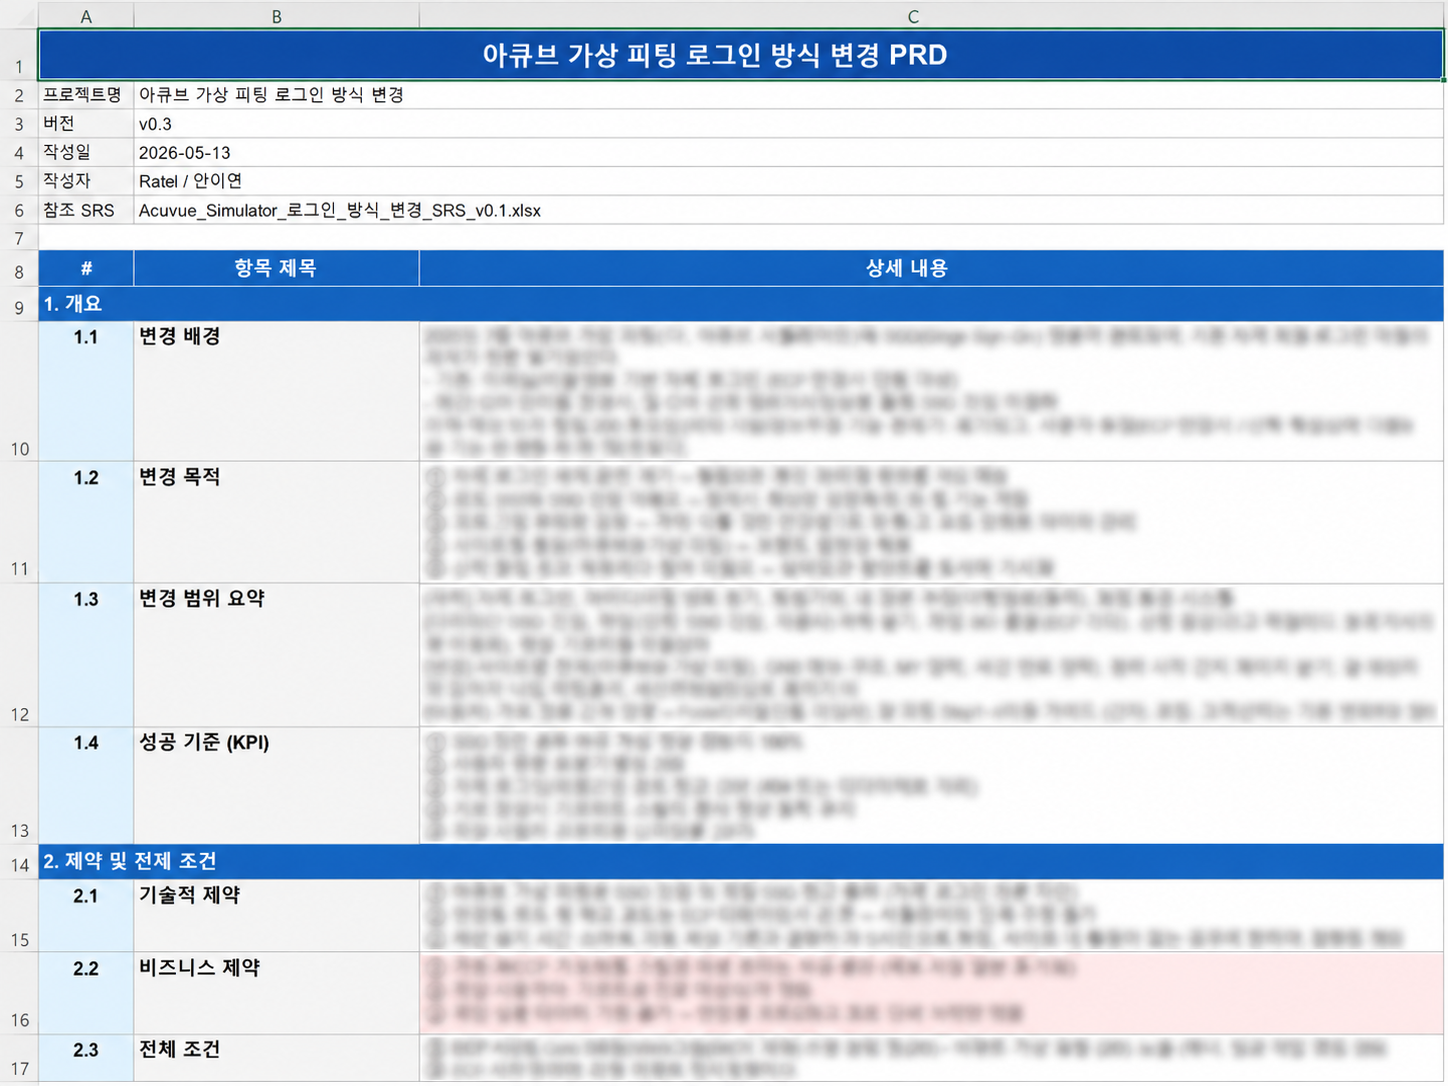
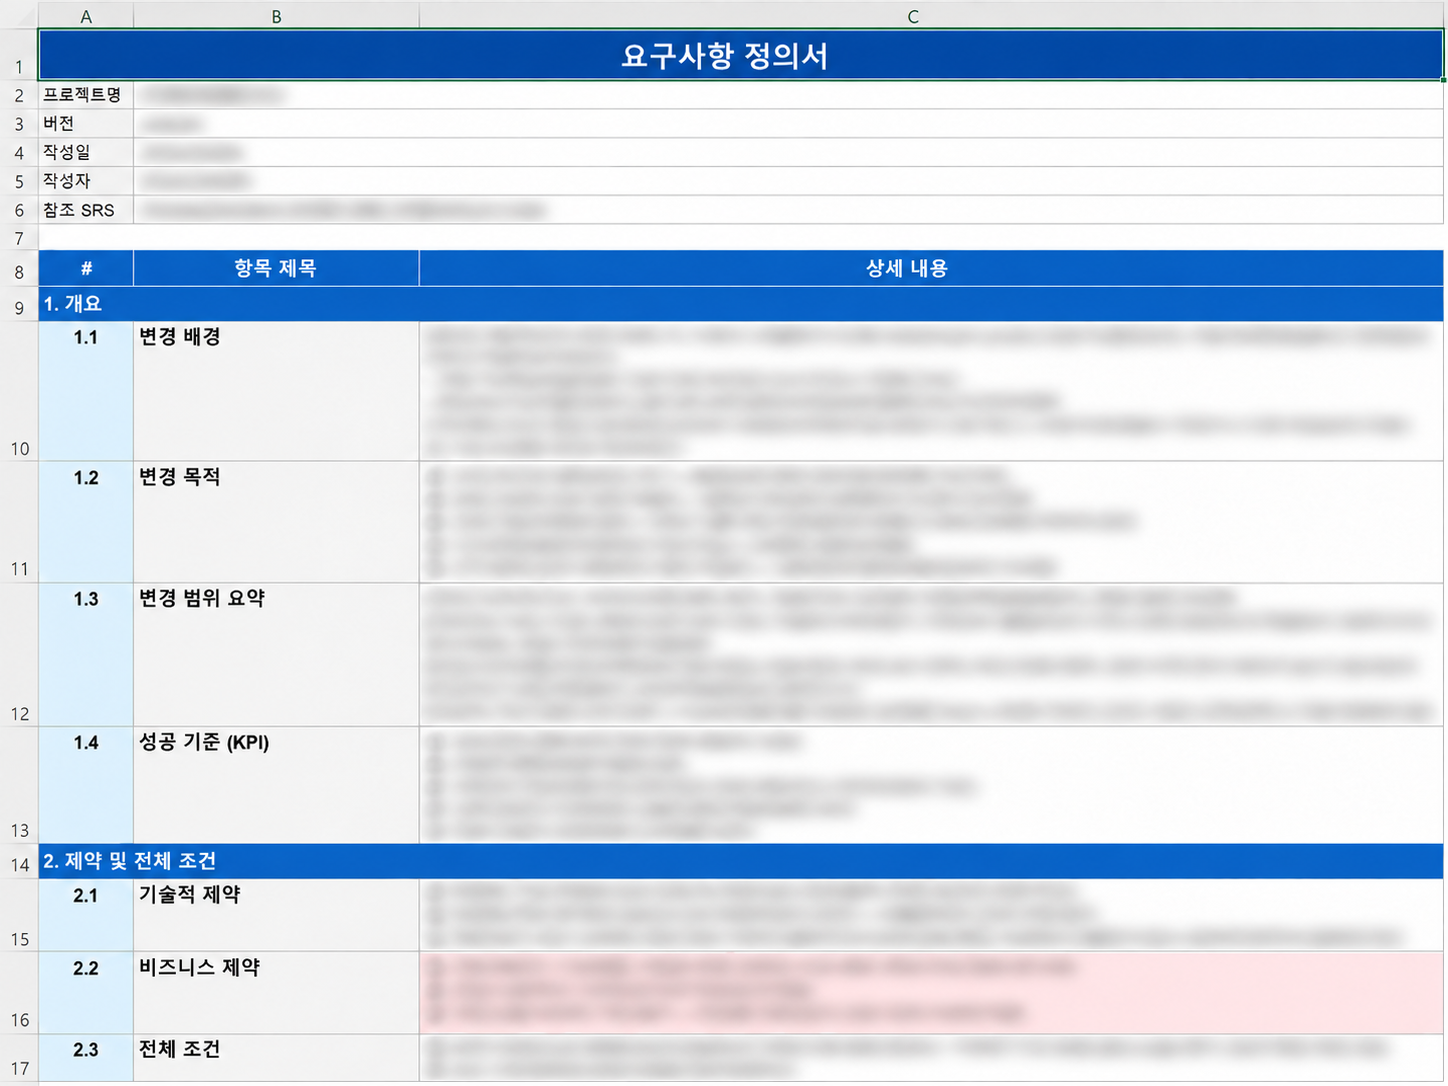
Strengthen PRD artifact redaction

diff --git a/public/index.html b/public/index.html
@@ -255,7 +255,7 @@
         <ol class="artifact-grid" aria-label="실무 산출물">
           <li class="artifact-card reveal">
             <div class="artifact-card-heading"><span>01</span><strong>정의</strong><span class="artifact-icon material-symbols-rounded" aria-hidden="true">description</span></div>
-            <figure><img src="/assets/additional-prd.png" alt="상세 내용을 마스킹한 아큐브 가상 피팅 요구사항 정의서" /><figcaption>요구사항 정의서 · PRD</figcaption></figure>
+            <figure><img src="/assets/additional-prd.png" alt="프로젝트 정보를 마스킹한 요구사항 정의서 템플릿" /><figcaption>요구사항 정의서 · PRD</figcaption></figure>
           </li>
           <li class="artifact-card reveal">
             <div class="artifact-card-heading"><span>02</span><strong>설계</strong><span class="artifact-icon material-symbols-rounded" aria-hidden="true">view_quilt</span></div>
